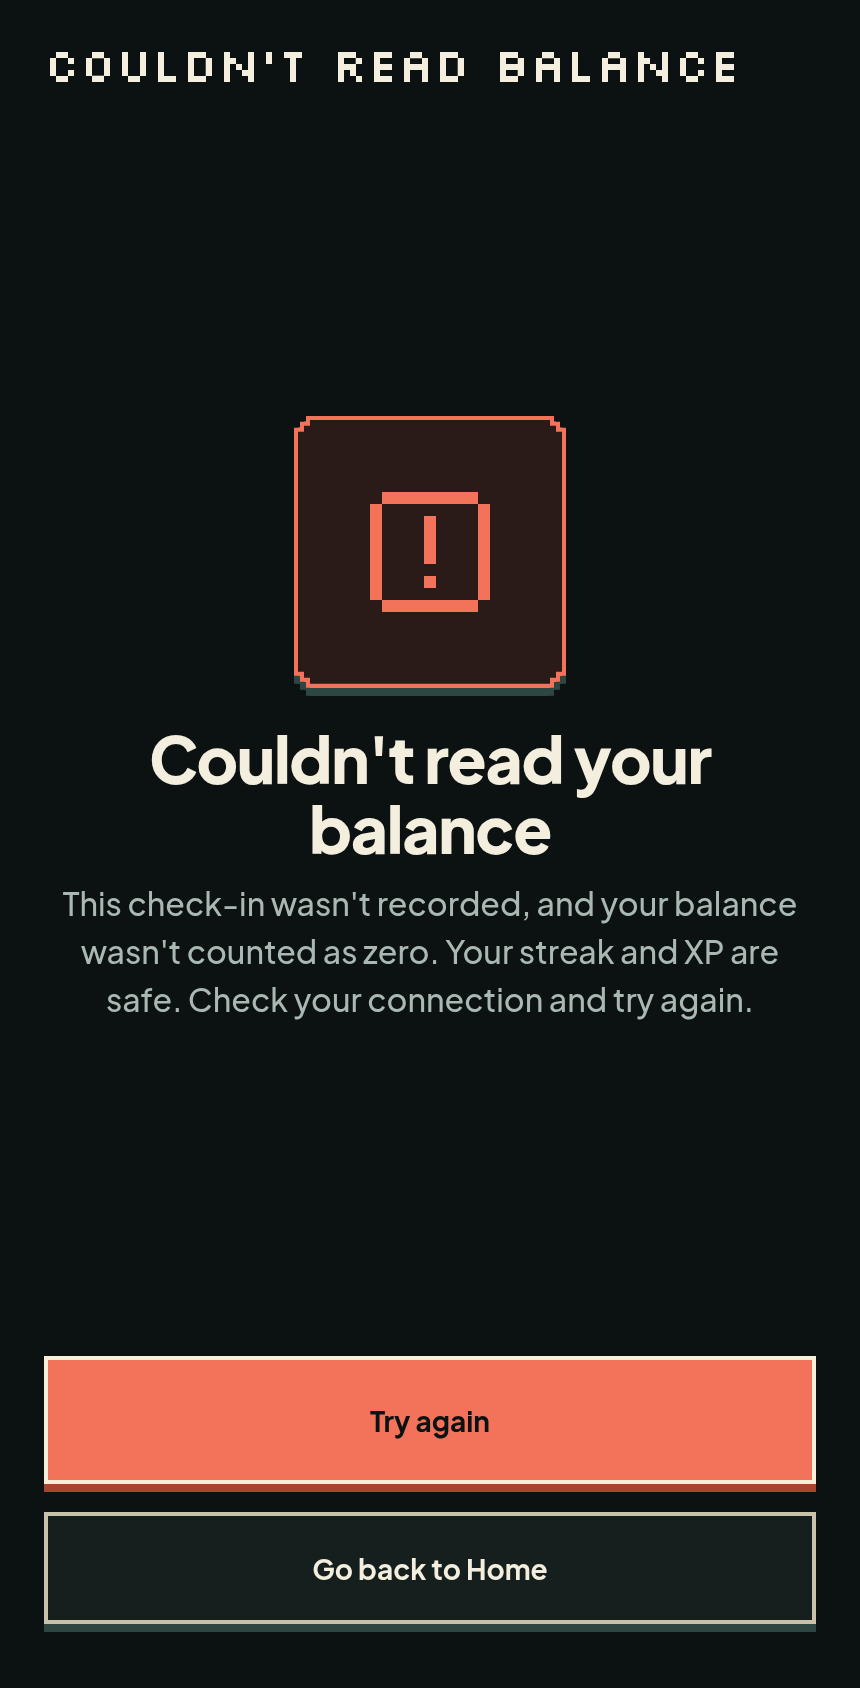
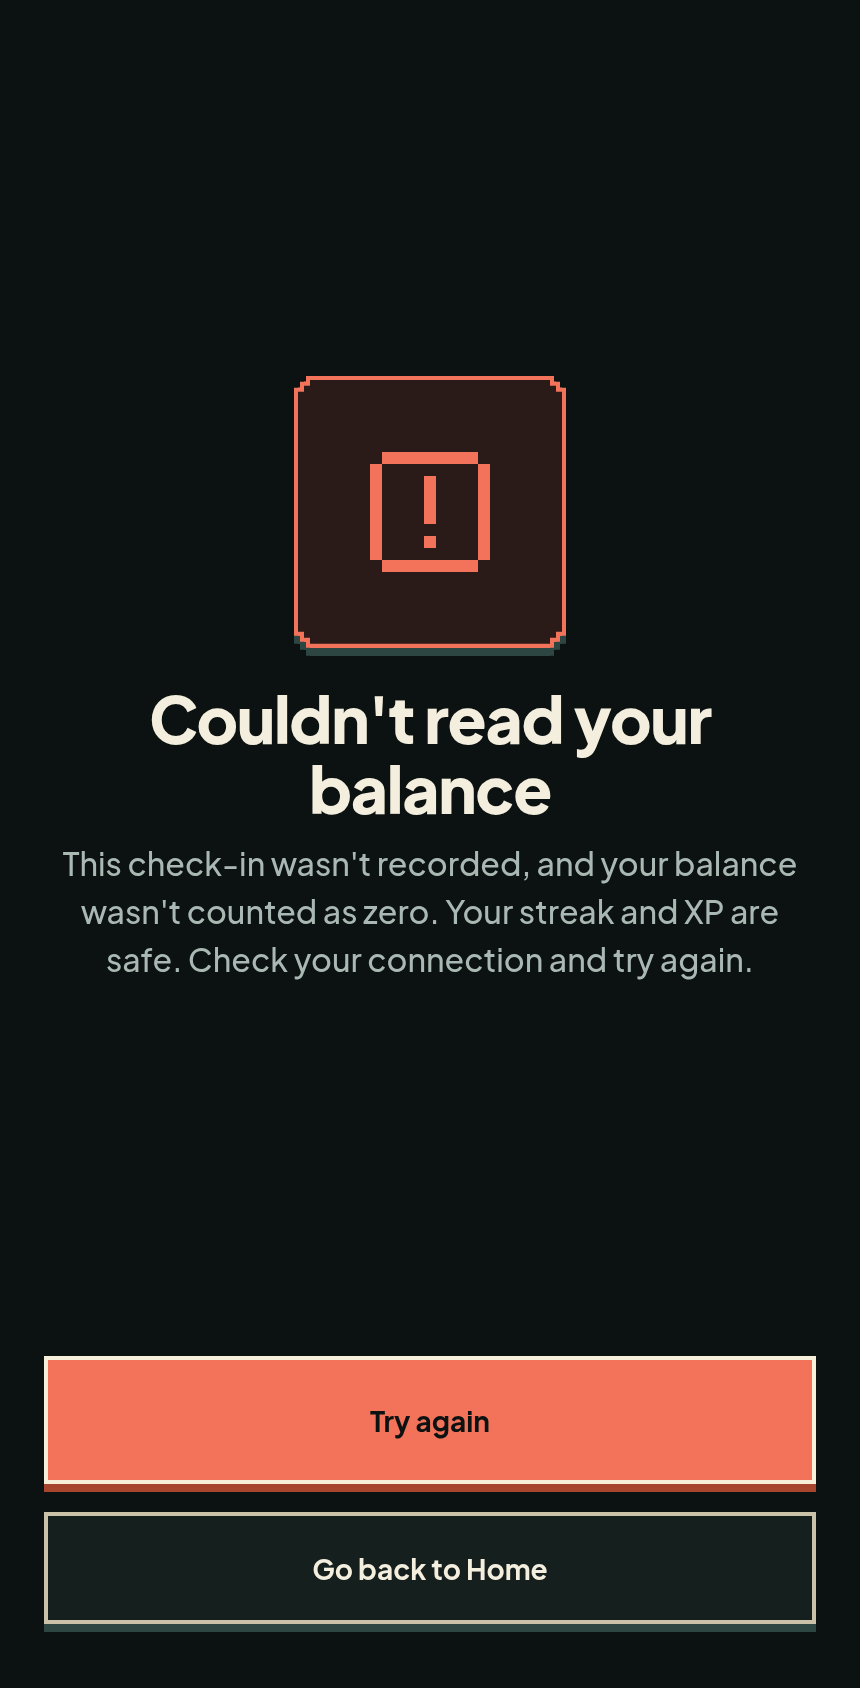
fix: drop the duplicate balance error header

diff --git a/src/lib/balance-error.test.ts b/src/lib/balance-error.test.ts
@@ -8,7 +8,8 @@ const PAGE = source('../app/balance-error/page.tsx')
 const HOME = source('../app/(tabs)/page.tsx')
 
 test('the balance error screen promises the balance was not zero', () => {
-  assert.match(PAGE, /Couldn&apos;t read balance/)
+  assert.match(PAGE, /Couldn&apos;t read your balance/)
+  assert.doesNotMatch(PAGE, /sv-number-m/)
   assert.match(PAGE, /wasn&apos;t recorded/)
   assert.match(PAGE, /wasn&apos;t counted as\s+zero/)
   assert.match(PAGE, /streak and XP are safe/)

diff --git a/src/app/balance-error/page.tsx b/src/app/balance-error/page.tsx
@@ -25,8 +25,6 @@ export default function BalanceErrorPage() {
 
   return (
     <ScreenShell variant="pushed" bodyClassName="pt-0">
-      <span className="sv-number-m text-balance">Couldn&apos;t read balance</span>
-
       <div className="flex flex-1 flex-col items-center justify-center gap-5 text-center">
         <PixelPanel
           tone="coral"

diff --git a/docs/superpowers/audits/2026-11-05-ui-gap-audit.md b/docs/superpowers/audits/2026-11-05-ui-gap-audit.md
@@ -775,7 +775,7 @@ privacy consent, and adds the Nimiq Pay gate screens and `/balance-error`.
   and wraps.
 - Name: the title takes two lines; the 250px character panel, field, counter and
   error fit. The error state keeps the CTA on screen at 360.
-- Balance error: the 24px top title wraps and is balanced; both actions fit.
+- Balance error: the centred headline wraps to two lines; both actions fit.
 - Gate: the outside and update screens centre the panel, headline, body and
   actions with no top header; both update actions fit at 360.
 
@@ -794,8 +794,8 @@ privacy consent, and adds the Nimiq Pay gate screens and `/balance-error`.
 - **Balance Error only for `rpc_unreachable`.** Other check-in failures keep the
   inline banner, where the copy is accurate.
 - **The gate stays one component with states.** A gate route would be gated
-  itself or need an exemption. The Open and Update screens have no top
-  Silkscreen header; the centred headline is the only heading.
+  itself or need an exemption. The Open, Update and Balance error screens have
+  no top Silkscreen header; the centred headline is the only heading.
 - **Update opens https://nimiq.com.** No app-store deep link exists in the repo.
 - **The privacy page scrolls.** The handoff pins the consent footer; at 360 the
   cards and a pinned footer would obscure text, so the footer sits at the end.

diff --git a/docs/superpowers/renders/onboarding/review/NOTES.md b/docs/superpowers/renders/onboarding/review/NOTES.md
@@ -94,8 +94,8 @@ Corrections:
   again leaves a one-shot `sessionStorage` flag; Home consumes it and runs one
   check-in. A blocked storage API leaves Home normal.
 - The gate remains one component with states, not routes. `/card/*` stays
-  public. The Open and Update screens have no top Silkscreen header; the
-  centred headline is the screen heading.
+  public. The Open, Update and Balance error screens have no top Silkscreen
+  header; the centred headline is the screen heading.
 - The Settings privacy sheet now uses the same copy source and shows the notice
   version; its previous mojibake arrow is gone.
 - The real-device Nimiq Pay pass at 360-430 is still yours. `.env.local` is not

diff --git a/docs/superpowers/specs/2026-11-09-onboarding-ui-design.md b/docs/superpowers/specs/2026-11-09-onboarding-ui-design.md
@@ -271,9 +271,8 @@ One component, four phases, no new routes. Public `/card/*` stays exempt.
 
 ### 6.2 Balance error - `/balance-error`
 
-`ScreenShell variant="pushed"`, no header, top title "Couldn't read balance" in
-`.sv-number-m`, then a centered 132px coral `PixelPanel` with a 72px coral
-`alert` glyph and the copy:
+`ScreenShell variant="pushed"`, no header. A centered 132px coral
+`PixelPanel` with a 72px coral `alert` glyph and the h1/copy:
 
 > Couldn't read your balance.
 > This check-in wasn't recorded, and your balance wasn't counted as zero. Your

diff --git a/docs/superpowers/plans/2026-11-09-onboarding-ui.md b/docs/superpowers/plans/2026-11-09-onboarding-ui.md
@@ -631,9 +631,9 @@ guard and calls the existing check-in. A `false` leaves Home normal.
 
 `ScreenShell variant="pushed"` with no header:
 
-- Top title "Couldn't read balance" in `.sv-number-m`.
 - Centered 132px coral `PixelPanel` with `Glyph name="alert"` at 72px,
-  `sv-shake` once, and the handoff headline/body.
+  `sv-shake` once, and the handoff h1/body. The centred headline is the only
+  heading.
 - Coral `Button` "Try again" -> `writeBalanceRetry()` then `replace('/')`.
 - Secondary `ButtonLink href="/"` "Go back to Home".
 
